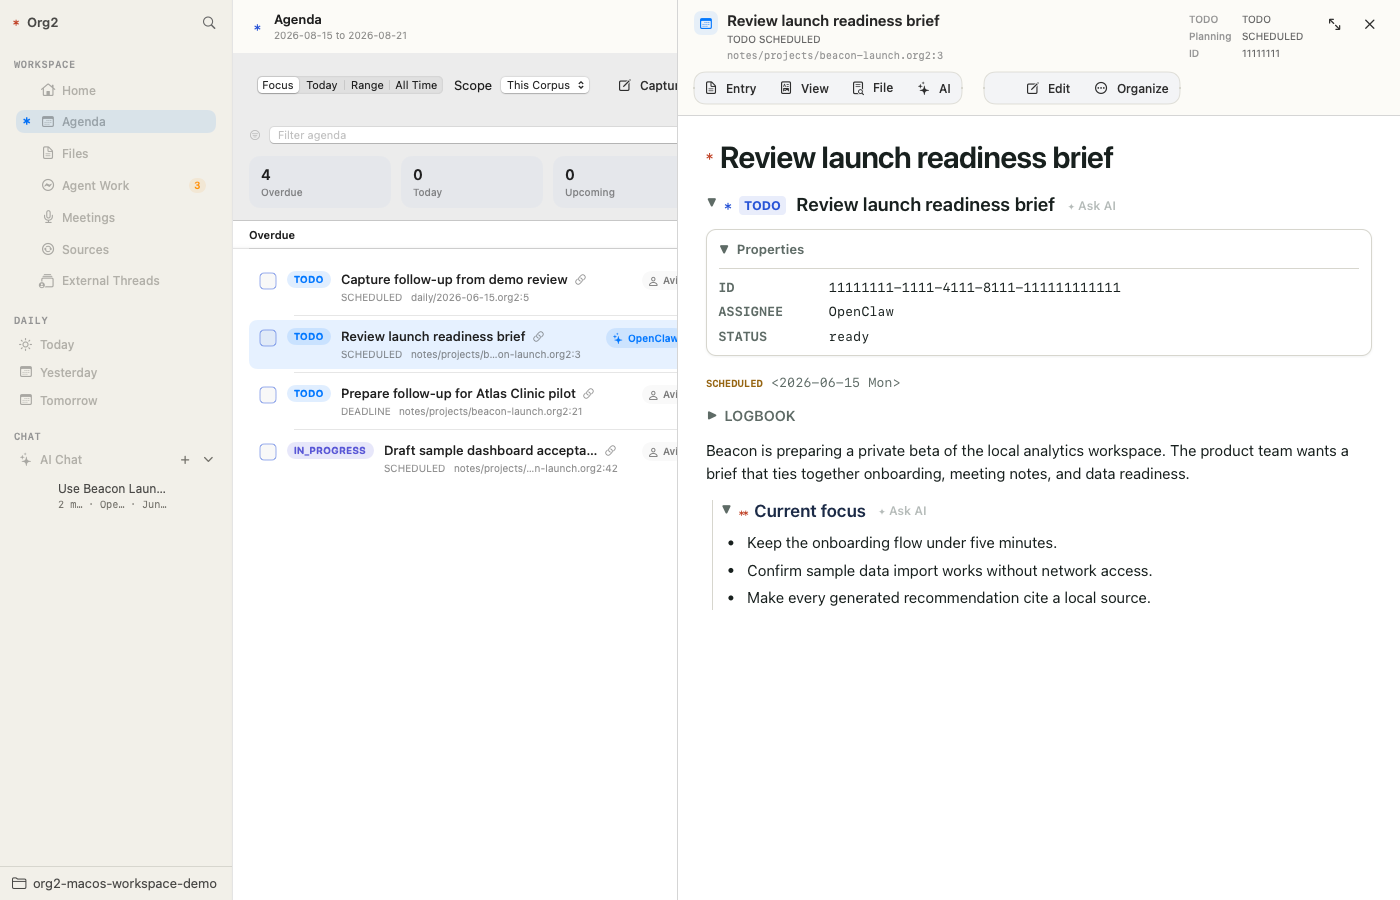
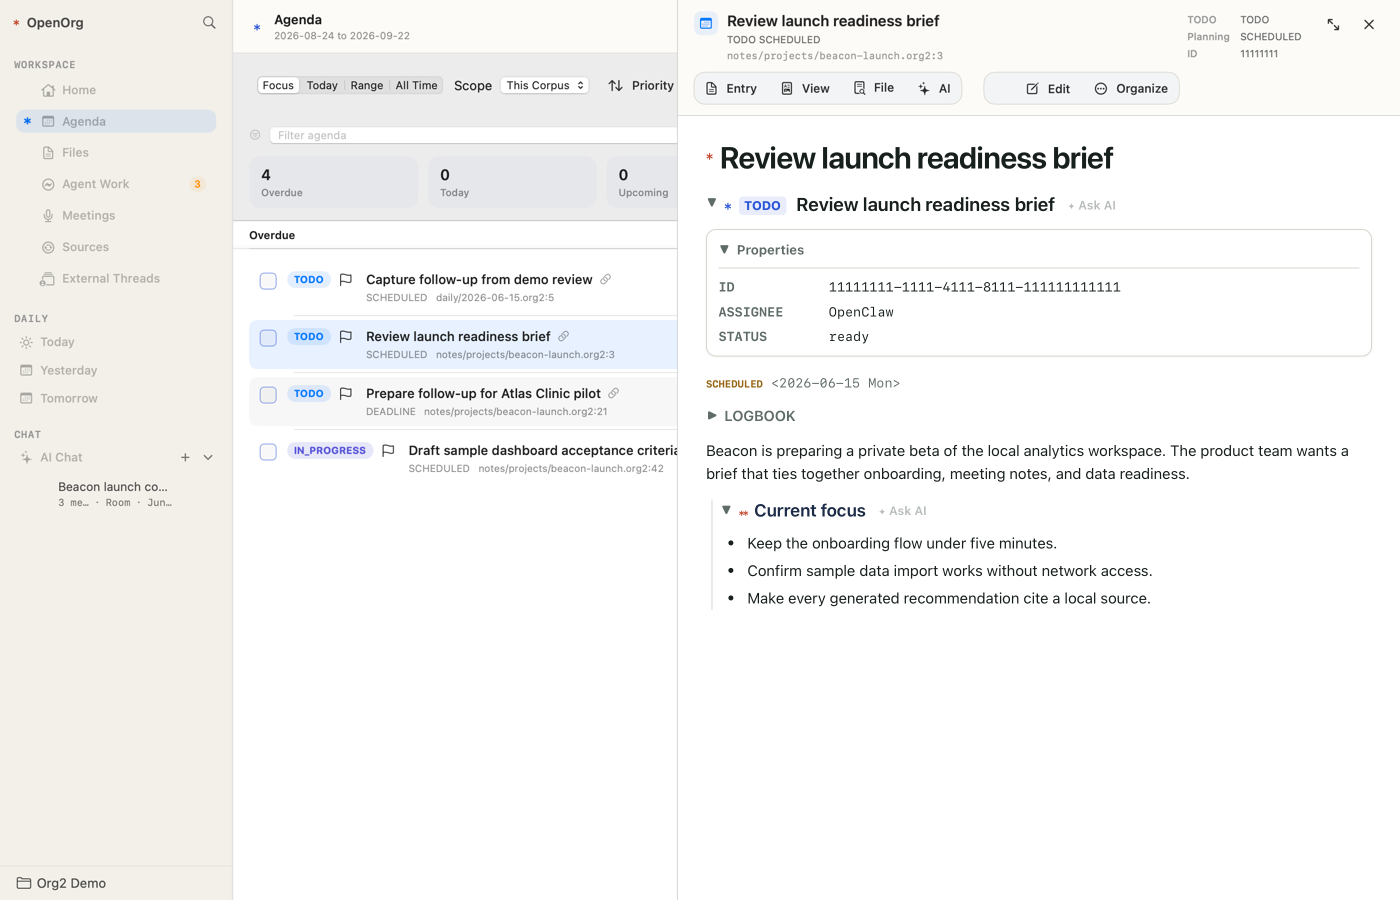
Refresh OpenOrg product screenshots

diff --git a/apps/macos/Org2Workspace/Sources/Org2WorkspaceScreenshotRenderer/main.swift b/apps/macos/Org2Workspace/Sources/Org2WorkspaceScreenshotRenderer/main.swift
@@ -129,7 +129,20 @@ struct Org2WorkspaceScreenshotRenderer {
         bitmap = composedBitmap
       }
     }
-    bitmap.size = NSSize(width: width / scale, height: height / scale)
+    let expectedPixelWidth = max(1, Int(width * scale))
+    let expectedPixelHeight = max(1, Int(height * scale))
+    if bitmap.pixelsWide != expectedPixelWidth || bitmap.pixelsHigh != expectedPixelHeight {
+      guard let normalizedBitmap = normalize(
+        base: bitmap,
+        size: bounds.size,
+        pixelWidth: expectedPixelWidth,
+        pixelHeight: expectedPixelHeight
+      ) else {
+        throw ScreenshotRenderError.renderFailed
+      }
+      bitmap = normalizedBitmap
+    }
+    bitmap.size = bounds.size
     guard let png = bitmap.representation(using: .png, properties: [:]) else {
       throw ScreenshotRenderError.renderFailed
     }
@@ -185,6 +198,39 @@ struct Org2WorkspaceScreenshotRenderer {
       height: webFrame.height
     )
     webSnapshot.draw(in: bitmapWebFrame)
+    context.flushGraphics()
+    NSGraphicsContext.restoreGraphicsState()
+    return bitmap
+  }
+
+  @MainActor
+  private static func normalize(
+    base: NSBitmapImageRep,
+    size: NSSize,
+    pixelWidth: Int,
+    pixelHeight: Int
+  ) -> NSBitmapImageRep? {
+    guard let bitmap = NSBitmapImageRep(
+      bitmapDataPlanes: nil,
+      pixelsWide: pixelWidth,
+      pixelsHigh: pixelHeight,
+      bitsPerSample: 8,
+      samplesPerPixel: 4,
+      hasAlpha: true,
+      isPlanar: false,
+      colorSpaceName: .deviceRGB,
+      bytesPerRow: 0,
+      bitsPerPixel: 0
+    ), let context = NSGraphicsContext(bitmapImageRep: bitmap) else {
+      return nil
+    }
+
+    bitmap.size = size
+    let baseImage = NSImage(size: size)
+    baseImage.addRepresentation(base)
+    NSGraphicsContext.saveGraphicsState()
+    NSGraphicsContext.current = context
+    baseImage.draw(in: NSRect(origin: .zero, size: size))
     context.flushGraphics()
     NSGraphicsContext.restoreGraphicsState()
     return bitmap

diff --git a/apps/macos/Org2Workspace/Sources/Org2WorkspaceCore/ContentView.swift b/apps/macos/Org2Workspace/Sources/Org2WorkspaceCore/ContentView.swift
@@ -1004,7 +1004,7 @@ private struct SidebarHeader: View {
   var body: some View {
     HStack(spacing: 7) {
       WorkspaceAsteriskMarker(color: WorkspaceDesign.signalAccent, size: 10)
-      Text("Org2")
+      Text(WorkspaceProductIdentity.displayName)
         .font(.headline.weight(.semibold))
 
       Spacer(minLength: 0)
